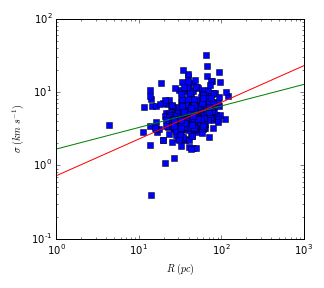
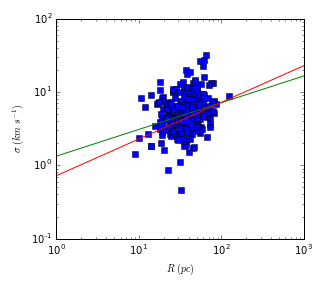
new catalog

Changed region(s): [[0.1852, 0.1875, 0.9259, 0.625], [0.5247, 0.625, 0.5864, 0.6875], [0.4321, 0.6562, 0.4938, 0.6875]]

diff --git a/powerlawbins.py b/powerlawbins.py
@@ -18,7 +18,7 @@ mygalaxy=Galaxy("M83")
 print(mygalaxy)
 
 #load fits file
-t=Table.read('/home/pafreema/Documents/m83.co10_props_cprops.fits')
+t=Table.read('/home/pafreema/Documents/m83.co10.K_props_cprops.fits')
 
 #find cloud's galactocentric distance
 rgal=mygalaxy.radius(ra=(t['XPOS']), dec=(t['YPOS']))
@@ -31,18 +31,21 @@ t.add_column(colrgal)
 #fit for the whole galaxy
 mass=t['MASS_EXTRAP'].data
 myfit=powerlaw.Fit(mass)
+idx=np.where(t['MASS_EXTRAP']>3e5)
+mass_subset=t['MASS_EXTRAP'][idx].data
+R,p=myfit_subset.distribution_compare('power_law', 'truncated_power_law')
 
 #plot bin 1
 
 #index the file so you get clouds within a certain radius
 idx_1=np.where(t['RADIUS_PC']<450)
-idxmass_1=np.where((t['MASS_EXTRAP']>myfit.xmin)&(t['RADIUS_PC']<450))
+idxmass_1=np.where((t['MASS_EXTRAP']>3e5)&(t['RADIUS_PC']<450))
 
 #pull out the mass variable and fit it
 massdisk1=t['MASS_EXTRAP'][idx_1].data
 fit_1=powerlaw.Fit(massdisk1)
 massdisk1_subset=t['MASS_EXTRAP'][idxmass_1].data
-fit_1_subset=powerlaw.Fit(massdisk1_subset, xmin=myfit.xmin)
+fit_1_subset=powerlaw.Fit(massdisk1_subset, xmin=3e5)
 
 
 
@@ -54,6 +57,7 @@ print(fit_1_subset.alpha)
 #R<0 means the data is more consistent with the right distribution, p is the significance of the result
 R1,p1=fit_1_subset.distribution_compare('power_law', 'truncated_power_law')
 print(R1,p1)
+print(1/fit_1_subset.truncated_power_law.parameter2)
 
 plt.figure(1)
 fit_1_subset.truncated_power_law.plot_ccdf(label='Trunc. Power Law')
@@ -67,10 +71,10 @@ plt.savefig('powerlawbin1.png')
 #plot bin 2
 
 idx_2=np.where((t['RADIUS_PC']>450)&(t['RADIUS_PC']<2300))
-idxmass_2=np.where((t['MASS_EXTRAP']>myfit.xmin)&(t['RADIUS_PC']>450)&(t['RADIUS_PC']<2300))
+idxmass_2=np.where((t['MASS_EXTRAP']>3e5)&(t['RADIUS_PC']>450)&(t['RADIUS_PC']<2300))
 
 massdisk2_subset=t['MASS_EXTRAP'][idxmass_2].data
-fit_2_subset=powerlaw.Fit(massdisk2_subset, xmin=myfit.xmin)
+fit_2_subset=powerlaw.Fit(massdisk2_subset, xmin=3e5)
 massdisk2=t['MASS_EXTRAP'][idx_2].data
 fit_2=powerlaw.Fit(massdisk2)
 
@@ -80,6 +84,7 @@ print(fit_2_subset.alpha)
 
 R2,p2=fit_2_subset.distribution_compare('power_law', 'truncated_power_law')
 print(R2,p2)
+print(1/fit_2_subset.truncated_power_law.parameter2)
 
 plt.figure(2)
 fit_2_subset.truncated_power_law.plot_ccdf(label='Trunc. Power Law')
@@ -87,16 +92,16 @@ fit_2_subset.power_law.plot_ccdf(label='Power Law')
 fit_2_subset.plot_ccdf(drawstyle='steps', label='data')
 plt.xlabel(r'$Mass\ M_{\odot}$')
 plt.ylabel(r'$N\ (>M)$')
-plt.legend()
+plt.legend(loc=3)
 plt.savefig('powerlawbin2.png')
 
 #plot bin 3
 
 idx_3=np.where((t['RADIUS_PC']>2300)&(t['RADIUS_PC']<3200))
-idxmass_3=np.where((t['MASS_EXTRAP']>2496477.5)&(t['RADIUS_PC']>2300)&(t['RADIUS_PC']<3200))
+idxmass_3=np.where((t['MASS_EXTRAP']>3e5)&(t['RADIUS_PC']>2300)&(t['RADIUS_PC']<3200))
 
 massdisk3_subset=t['MASS_EXTRAP'][idxmass_3].data
-fit_3_subset=powerlaw.Fit(massdisk3_subset, xmin=2496477.5)
+fit_3_subset=powerlaw.Fit(massdisk3_subset, xmin=3e5)
 
 massdisk3=t['MASS_EXTRAP'][idx_3].data
 fit_3=powerlaw.Fit(massdisk3)
@@ -107,6 +112,7 @@ print(fit_3_subset.alpha)
 
 R3,p3=fit_3_subset.distribution_compare('power_law', 'truncated_power_law')
 print(R3,p3)
+print(fit_3_subset.truncated_power_law.parameter2)
 
 plt.figure(3)
 fit_3_subset.truncated_power_law.plot_ccdf(label='Trunc. Power Law')
@@ -114,16 +120,16 @@ fit_3_subset.power_law.plot_ccdf(label='Power Law')
 fit_3_subset.plot_ccdf(drawstyle='steps', label='data')
 plt.xlabel(r'$Mass\ M_{\odot}$')
 plt.ylabel(r'$N\ (>M)$')
-plt.legend()
+plt.legend(loc=3)
 plt.savefig('powerlawbin3.png')
 
 #plot bin 4
 
 idx_4=np.where((t['RADIUS_PC']>3200)&(t['RADIUS_PC']<3900))
-idxmass_4=np.where((t['MASS_EXTRAP']>myfit.xmin)&(t['RADIUS_PC']>3200)&(t['RADIUS_PC']<3900))
+idxmass_4=np.where((t['MASS_EXTRAP']>3e5)&(t['RADIUS_PC']>3200)&(t['RADIUS_PC']<3900))
 
 massdisk4_subset=t['MASS_EXTRAP'][idxmass_4].data
-fit_4_subset=powerlaw.Fit(massdisk4_subset, xmin=myfit.xmin)
+fit_4_subset=powerlaw.Fit(massdisk4_subset, xmin=3e5)
 
 massdisk4=t['MASS_EXTRAP'][idx_4].data
 fit_4=powerlaw.Fit(massdisk4)
@@ -134,6 +140,7 @@ print(fit_4_subset.alpha)
 
 R4,p4=fit_4_subset.distribution_compare('power_law', 'truncated_power_law')
 print(R4,p4)
+print(1/fit_4_subset.truncated_power_law.parameter2)
 
 plt.figure(4)
 fit_4_subset.truncated_power_law.plot_ccdf(label='Trunc. Power Law')
@@ -147,10 +154,10 @@ plt.savefig('powerlawbin4.png')
 #plot bin 5
 
 idx_5=np.where((t['RADIUS_PC']>3900)&(t['RADIUS_PC']<4500))
-idxmass_5=np.where((t['MASS_EXTRAP']>myfit.xmin)&(t['RADIUS_PC']>3900)&(t['RADIUS_PC']<4500))
+idxmass_5=np.where((t['MASS_EXTRAP']>3e5)&(t['RADIUS_PC']>3900)&(t['RADIUS_PC']<4500))
 
 massdisk5_subset=t['MASS_EXTRAP'][idxmass_5].data
-fit_5_subset=powerlaw.Fit(massdisk5_subset, xmin=myfit.xmin)
+fit_5_subset=powerlaw.Fit(massdisk5_subset, xmin=3e5)
 
 massdisk5=t['MASS_EXTRAP'][idx_5].data
 fit_5=powerlaw.Fit(massdisk5)
@@ -161,6 +168,7 @@ print(fit_5_subset.alpha)
 
 R5,p5=fit_5_subset.distribution_compare('power_law', 'truncated_power_law')
 print(R5,p5)
+print(fit_5_subset.truncated_power_law.parameter2)
 
 plt.figure(5)
 fit_5_subset.truncated_power_law.plot_ccdf(label='Trunc. Power Law')
@@ -171,15 +179,15 @@ plt.ylabel(r'$N\ (>M)$')
 plt.legend(loc=3)
 plt.savefig('powerlawbin5.png')
 
-t=PrettyTable(["Bins", "R", "p", "index", "Adamo's index"])
-t.add_row(["0<r<4.5", -0.680348, 0.243417, -2.425428, "N/A"])
-t.add_row(["r<1", -3.470554, 0.008424, -1.958932, "N/A"])
-t.add_row(["r>1", -1.066727, 0.144116, -3.205864, "N/A"])
-t.add_row(["0<r<0.45", R1, p1, -fit_1_subset.alpha, "N/A"])
-t.add_row(["0.45<r<2.3", R2, p2, -fit_2_subset.alpha, -1.90])
-t.add_row(["2.3<r<3.2", R3, p3, -fit_3_subset.alpha, -2.20])
-t.add_row(["3.2<r<3.9", R4, p4, -fit_4_subset.alpha, -2.20])
-t.add_row(["3.9<r<4.5", R5, p5, -fit_5_subset.alpha, -2.70])
+t=PrettyTable(["Bins", "R", "p", "index", "Truncation mass M_c", "Adamo's index"])
+t.add_row(["0<r<4.5",R,p,-myfit_subset.alpha,1/myfit_subset.truncated_power_law.parameter2 , "N/A"])
+t.add_row(["r<1", -27.555338, 1.139e-13, -1.447356, 19565837, "N/A"])
+t.add_row(["r>1", -46.751947,0.0,-1.731958, 3398336, "N/A"])
+t.add_row(["0<r<0.45", R1, p1, -fit_1_subset.alpha, 1/fit_1_subset.truncated_power_law.parameter2, "N/A"])
+t.add_row(["0.45<r<2.3", R2, p2, -fit_2_subset.alpha,1/fit_2_subset.truncated_power_law.parameter2, -1.90])
+t.add_row(["2.3<r<3.2", R3, p3, -fit_3_subset.alpha,1/fit_3_subset.truncated_power_law.parameter2, -2.20])
+t.add_row(["3.2<r<3.9", R4, p4, -fit_4_subset.alpha,1/fit_4_subset.truncated_power_law.parameter2, -2.20])
+t.add_row(["3.9<r<4.5", R5, p5, -fit_5_subset.alpha,1/fit_5_subset.truncated_power_law.parameter2, -2.70])
 print t
     
 data=t.get_string()

diff --git a/powerlaws.py b/powerlaws.py
@@ -8,13 +8,15 @@ from galaxies import Galaxy
 import powerlaw
 from astropy.table import Table
 
-t=Table.read('/home/pafreema/Documents/m83.co10_props_cprops.fits') #loads into astropy table
+t=Table.read('/home/pafreema/Documents/m83.co10.K_props_cprops.fits') #loads into astropy table
 mass=t['MASS_EXTRAP'].data #pulls out the mass variable
 myfit=powerlaw.Fit(mass)
 print(myfit.xmin)
-idx=np.where(t['MASS_EXTRAP']>2496477.5)
+idx=np.where(t['MASS_EXTRAP']>3e5)
 mass_subset=t['MASS_EXTRAP'][idx].data
-myfit_subset=powerlaw.Fit(mass_subset, xmin=myfit.xmin)
+myfit_subset=powerlaw.Fit(mass_subset, xmin=3e5)
+
+print(myfit.xmin)
 
 #myfit.plot_ccdf() #look at the data with the fit
 print(myfit.alpha) #returns the fitted index
@@ -22,6 +24,7 @@ print(myfit_subset.alpha)
 
 R,p=myfit_subset.distribution_compare('power_law', 'truncated_power_law')
 print(R,p)
+print(1/myfit_subset.truncated_power_law.parameter2)
 #compares two different forms of the distribution
 #R<0 means the data is more consistent with the right distribution, p is the significance of the result
 myfit_subset.truncated_power_law.plot_ccdf(label='Trunc. Power Law')
@@ -29,5 +32,5 @@ myfit_subset.power_law.plot_ccdf(label='Power Law')
 myfit_subset.plot_ccdf(drawstyle='steps', label='data')
 plt.xlabel(r'$Mass\ M_{\odot}$')
 plt.ylabel(r'$N\ (>M)$')
-plt.legend()
+plt.legend(loc=3)
 plt.savefig('powerlaw.png')

diff --git a/powerlawnuclear.py b/powerlawnuclear.py
@@ -14,7 +14,7 @@ import astropy.units as u
 mygalaxy=Galaxy("M83")
 print(mygalaxy)
 
-t=Table.read('/home/pafreema/Documents/m83.co10_props_cprops.fits')
+t=Table.read('/home/pafreema/Documents/m83.co10.K_props_cprops.fits')
 
 rgal=mygalaxy.radius(ra=(t['XPOS']), dec=(t['YPOS']))
 
@@ -27,11 +27,11 @@ mass=t['MASS_EXTRAP'].data #pulls out the mass variable
 myfit=powerlaw.Fit(mass)
 
 idxnuc=np.where(t['RADIUS_PC']<1000)
-idxmass=np.where((t['MASS_EXTRAP']>2496477.5)&(t['RADIUS_PC']<1000))
+idxmass=np.where((t['MASS_EXTRAP']>3e5)&(t['RADIUS_PC']<1000))
 massnuc=t['MASS_EXTRAP'][idxnuc].data
 massnuc_subset=t['MASS_EXTRAP'][idxmass].data
 fit=powerlaw.Fit(massnuc)
-fit_subset=powerlaw.Fit(massnuc_subset, xmin=2496477.5)
+fit_subset=powerlaw.Fit(massnuc_subset, xmin=3e5)
 
 #myfit.plot_ccdf() #look at the data with the fit
 print(fit.alpha) #returns the fitted index
@@ -39,13 +39,14 @@ print(fit_subset.alpha)
 
 R,p=fit_subset.distribution_compare('power_law', 'truncated_power_law')
 print(R,p)
+print(1/fit_subset.truncated_power_law.parameter2)
 
 fit_subset.truncated_power_law.plot_ccdf(label='Trunc. Power Law')
 fit_subset.power_law.plot_ccdf(label='Power Law')
 fit_subset.plot_ccdf(drawstyle='steps', label='data')
 plt.xlabel(r'$Mass\ M_{\odot}$')
 plt.ylabel(r'$N\ (>M)$')
-plt.legend()
+plt.legend(loc=3)
 plt.savefig('powerlawnuclear.png')
 
 

diff --git a/powerlawdisk.py b/powerlawdisk.py
@@ -15,7 +15,7 @@ import astropy.units as u
 mygalaxy=Galaxy("M83")
 print(mygalaxy)
 
-t=Table.read('/home/pafreema/Documents/m83.co10_props_cprops.fits')
+t=Table.read('/home/pafreema/Documents/m83.co10.K_props_cprops.fits')
 
 rgal=mygalaxy.radius(ra=(t['XPOS']), dec=(t['YPOS']))
 
@@ -28,11 +28,11 @@ mass=t['MASS_EXTRAP'].data
 myfit=powerlaw.Fit(mass)
 
 idxdisk=np.where(t['RADIUS_PC']>1000)
-idxmass=np.where((t['MASS_EXTRAP']>myfit.xmin)&(t['RADIUS_PC']>1000))
+idxmass=np.where((t['MASS_EXTRAP']>3e5)&(t['RADIUS_PC']>1000))
 massdisk=t['MASS_EXTRAP'][idxdisk].data
 massdisk_subset=t['MASS_EXTRAP'][idxmass].data
 fit=powerlaw.Fit(massdisk)
-fit_subset=powerlaw.Fit(massdisk_subset, xmin=myfit.xmin)
+fit_subset=powerlaw.Fit(massdisk_subset, xmin=3e5)
 
 #myfit.plot_ccdf() #look at the data with the fit
 print(fit.alpha) #returns the fitted index
@@ -40,13 +40,14 @@ print(fit_subset.alpha)
 
 R,p=fit_subset.distribution_compare('power_law', 'truncated_power_law')
 print(R,p)
+print(1/fit_subset.truncated_power_law.parameter2)
 
 fit_subset.truncated_power_law.plot_ccdf(label='Trunc. Power Law')
 fit_subset.power_law.plot_ccdf(label='Power Law')
 fit_subset.plot_ccdf(drawstyle='steps', label='data')
 plt.xlabel(r'$Mass\ M_{\odot}$')
 plt.ylabel(r'$N\ (>M)$')
-plt.legend()
+plt.legend(loc=3)
 plt.savefig('powerlawdisk.png')
 
 

diff --git a/m83plots2.py b/m83plots2.py
@@ -12,12 +12,12 @@ import astropy.units as u
 mygalaxy=Galaxy("M83")
 print(mygalaxy)
 
-mytable=Table.read('/home/pafreema/Documents/m83.co10_props_cprops.fits')
+mytable=Table.read('/home/pafreema/Documents/m83.co10.K_props_cprops.fits')
 
 idx = np.where(np.isfinite(mytable['VIRMASS_EXTRAP_DECONV'])) #removes values that are infinite/NaN
 
 rgal=mygalaxy.radius(ra=(mytable['XPOS'][idx]), dec=(mytable['YPOS'][idx]))
-print rgal.to(u.pc) #get radii in parsecs
+print rgal #get radii in parsecs
 
 sigma=(mytable['VRMS_EXTRAP_DECONV'][idx])/np.sqrt((mytable['RADRMS_EXTRAP_DECONV'][idx])**2) #sigma naught
 dens=(mytable['MASS_EXTRAP'][idx])/(np.pi*((mytable['RADRMS_EXTRAP_DECONV'][idx])**2)) #mass density

diff --git a/m83plots.py b/m83plots.py
@@ -12,7 +12,7 @@ from astropy.table import Table
 import matplotlib.pyplot as plt
 
 #load the file
-mytable=Table.read('/srv/astro/erosolo/m83/measurements/m83.co10_props_cprops.fits')
+mytable=Table.read('/home/pafreema/Documents/m83.co10.K_props_cprops.fits')
 #note that matplotlib understands LaTeX math in the code m
 
 idx = np.where(np.isfinite(mytable['VIRMASS_EXTRAP_DECONV'])) #removes values that are infinite/NaN
